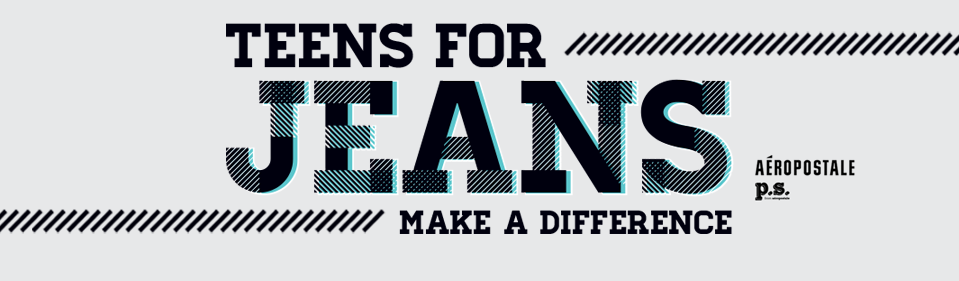
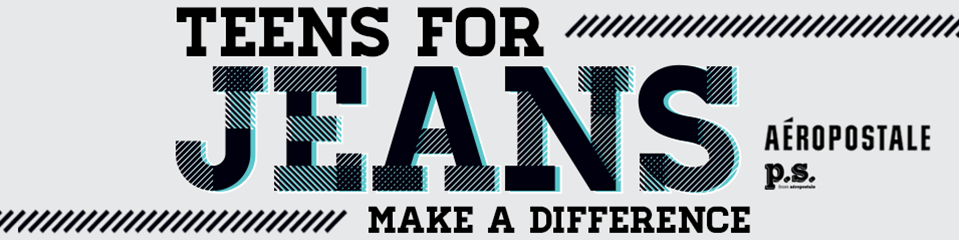
Updated header image; added social buttons back in.

diff --git a/sites/all/modules/dosomething/dosomething_campaign_styles/campaign_styles/2013/teensforjeans/html/header.html b/sites/all/modules/dosomething/dosomething_campaign_styles/campaign_styles/2013/teensforjeans/html/header.html
@@ -4,4 +4,15 @@
 
 <section class="header section" id="header">
   <h1 class="center"><img src="sites/all/modules/dosomething/dosomething_campaign_styles/campaign_styles/2013/teensforjeans/assets/header.png" alt="Teens for Jeans"></h1>
+
+  <div class="header-social left">
+    <!-- Facebook Like Button -->
+    <div class="fb-like" data-href="http://www.dosomething.org/teensforjeans" data-colorscheme="light" data-layout="button_count" data-action="like" data-show-faces="false" data-send="false"></div>
+
+    <!-- Twitter Tweet Button -->
+    <div class="header-twitter-share">
+      <a href="https://twitter.com/share" class="twitter-share-button" data-url="http://www.dosomething.org/teensforjeans" data-text="#TeensForJeans is BACK! Join us & @Aeropostale to start a drive at your school to help clothe youth who are homeless:" data-count="none">Tweet</a>
+      <script>!function(d,s,id){var js,fjs=d.getElementsByTagName(s)[0];if(!d.getElementById(id)){js=d.createElement(s);js.id=id;js.src="//platform.twitter.com/widgets.js";fjs.parentNode.insertBefore(js,fjs);}}(document,"script","twitter-wjs");</script>
+    </div>
+  </div>
 </section>
